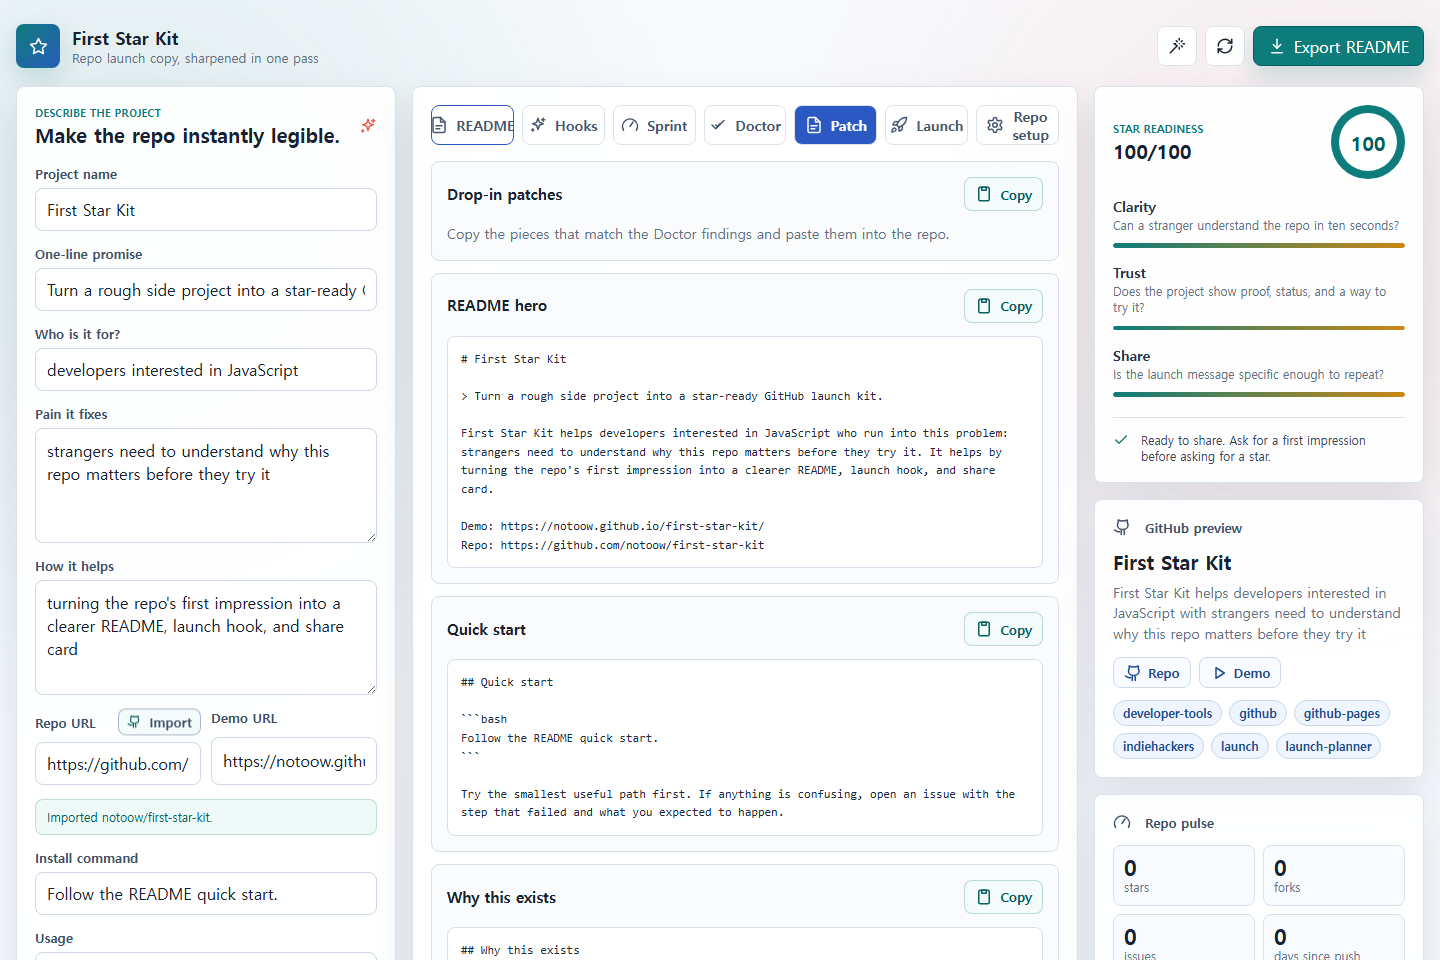
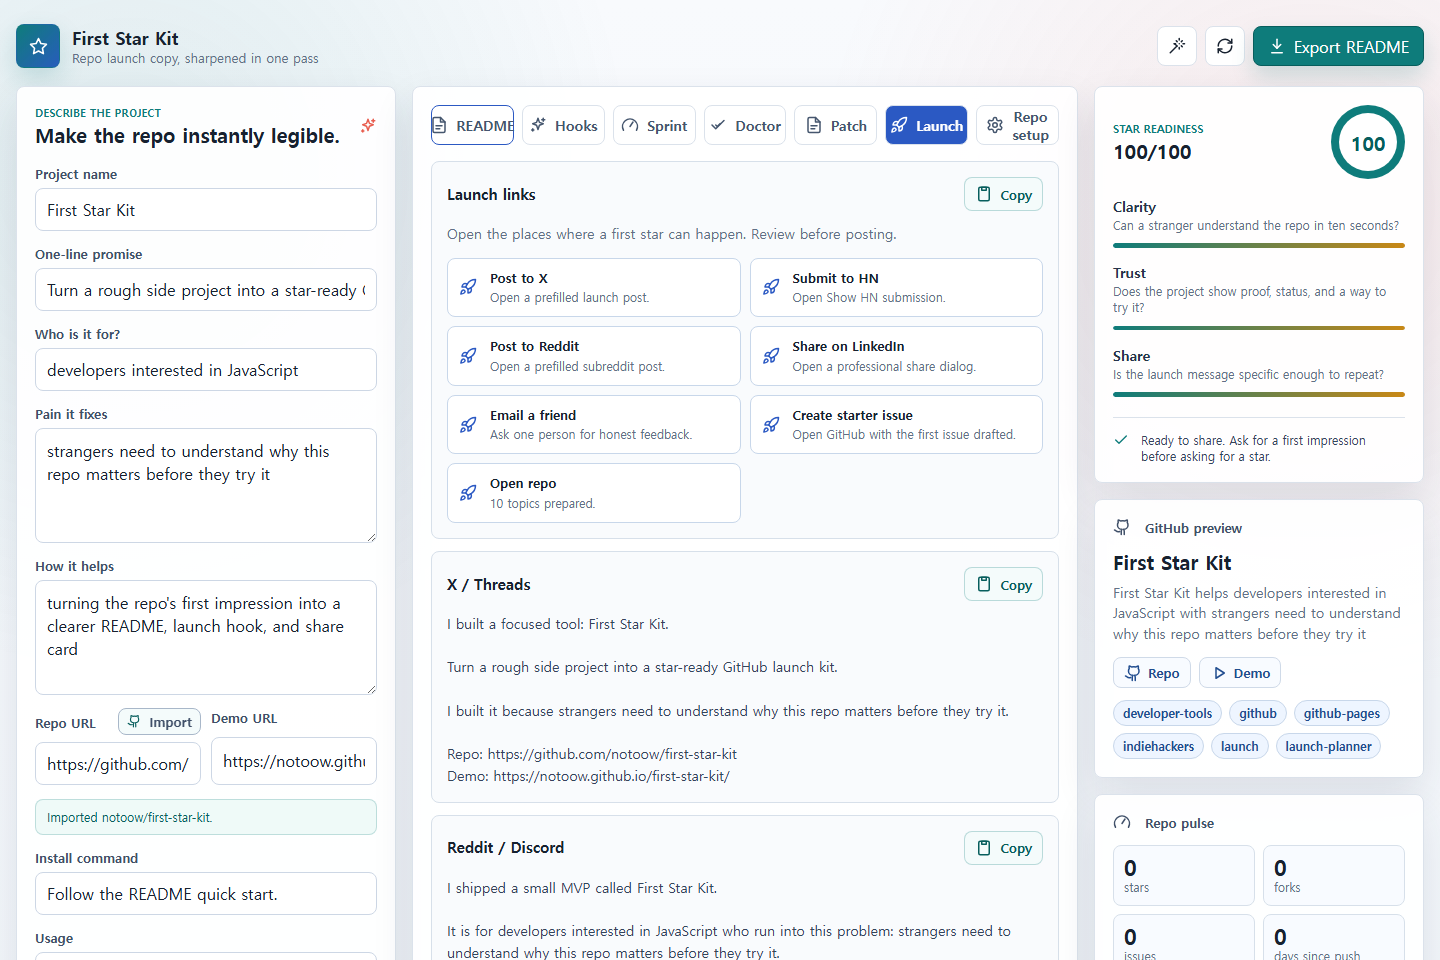
add launch action links

diff --git a/src/app.js b/src/app.js
@@ -263,6 +263,80 @@ function buildLaunchPosts(data) {
   ];
 }
 
+function primaryShareUrl(data) {
+  if (hasUrl(data.demoUrl)) return data.demoUrl.trim();
+  if (hasUrl(data.repoUrl)) return data.repoUrl.trim();
+  return "https://notoow.github.io/first-star-kit/";
+}
+
+function buildStarterIssue(data) {
+  const name = data.projectName.trim() || "Project Name";
+  return {
+    title: `Improve the first-run experience for ${name}`,
+    body: `The first-run path should feel obvious to someone landing on the repo for the first time.
+
+Tasks:
+- Confirm the README explains the problem in one screen.
+- Confirm the demo or screenshot is visible before the feature list.
+- Run the quick start and note the first confusing step.
+- Suggest one sentence that would make the value clearer.
+
+Good first issue: yes`,
+  };
+}
+
+function buildLaunchLinks(data, repoKit, posts) {
+  const name = data.projectName.trim() || "my project";
+  const url = primaryShareUrl(data);
+  const repo = parseGitHubRepoUrl(data.repoUrl);
+  const xText = posts[0].text;
+  const hnTitle = `Show HN: ${name} - ${compact(data.tagline || "a small tool for developers", 70)}`;
+  const redditTitle = `${name}: ${compact(data.tagline || "a small tool for developers", 120)}`;
+  const issue = buildStarterIssue(data);
+  const links = [
+    {
+      label: "Post to X",
+      href: `https://twitter.com/intent/tweet?text=${encodeURIComponent(xText)}`,
+      detail: "Open a prefilled launch post.",
+    },
+    {
+      label: "Submit to HN",
+      href: `https://news.ycombinator.com/submitlink?u=${encodeURIComponent(url)}&t=${encodeURIComponent(hnTitle)}`,
+      detail: "Open Show HN submission.",
+    },
+    {
+      label: "Post to Reddit",
+      href: `https://www.reddit.com/submit?url=${encodeURIComponent(url)}&title=${encodeURIComponent(redditTitle)}`,
+      detail: "Open a prefilled subreddit post.",
+    },
+    {
+      label: "Share on LinkedIn",
+      href: `https://www.linkedin.com/sharing/share-offsite/?url=${encodeURIComponent(url)}`,
+      detail: "Open a professional share dialog.",
+    },
+    {
+      label: "Email a friend",
+      href: `mailto:?subject=${encodeURIComponent(`Quick first impression on ${name}?`)}&body=${encodeURIComponent(posts.find((post) => post.title === "Friendly DM").text)}`,
+      detail: "Ask one person for honest feedback.",
+    },
+  ];
+
+  if (repo) {
+    links.push({
+      label: "Create starter issue",
+      href: `https://github.com/${encodeURIComponent(repo.owner)}/${encodeURIComponent(repo.repo)}/issues/new?title=${encodeURIComponent(issue.title)}&body=${encodeURIComponent(issue.body)}&labels=${encodeURIComponent("good first issue")}`,
+      detail: "Open GitHub with the first issue drafted.",
+    });
+    links.push({
+      label: "Open repo",
+      href: `https://github.com/${encodeURIComponent(repo.owner)}/${encodeURIComponent(repo.repo)}`,
+      detail: `${repoKit.topics.length} topics prepared.`,
+    });
+  }
+
+  return links;
+}
+
 function buildHooks(data) {
   const name = data.projectName.trim() || "my side project";
   const audience = data.audience.trim() || "developers";
@@ -449,7 +523,7 @@ function buildPatchSections(data, repoKit, doctor) {
   const demo = data.demoUrl.trim();
   const repo = data.repoUrl.trim();
   const install = data.installCommand.trim() || "Open the project and follow the README.";
-  const issueTitle = `Improve the first-run experience for ${name}`;
+  const issue = buildStarterIssue(data);
   const failedChecks = doctor.checks.filter((check) => !check.ok);
   const topFixes = failedChecks.length
     ? failedChecks.map((check) => `- ${check.label}: ${check.fix}`).join("\n")
@@ -487,18 +561,10 @@ Try the smallest useful path first. If anything is confusing, open an issue with
     },
     {
       title: "Starter issue",
-      text: `Title: ${issueTitle}
+      text: `Title: ${issue.title}
 
 Body:
-The first-run path should feel obvious to someone landing on the repo for the first time.
-
-Tasks:
-- Confirm the README explains the problem in one screen.
-- Confirm the demo or screenshot is visible before the feature list.
-- Run the quick start and note the first confusing step.
-- Suggest one sentence that would make the value clearer.
-
-Good first issue: yes`,
+${issue.body}`,
     },
     {
       title: "Doctor fixes",
@@ -609,11 +675,32 @@ function renderReadme(readme) {
   document.getElementById("readmePreview").textContent = readme;
 }
 
-function renderLaunch(posts) {
+function renderLaunch(posts, launchLinks) {
   const panel = document.querySelector('[data-panel="launch"]');
-  panel.innerHTML = posts
-    .map(
-      (post, index) => `
+  panel.innerHTML = `
+    <article class="copy-block launch-summary">
+      <div class="copy-block-head">
+        <h2>Launch links</h2>
+        ${copyButton("launchLinks")}
+      </div>
+      <p>Open the places where a first star can happen. Review before posting.</p>
+      <div class="launch-link-grid">
+        ${launchLinks
+          .map(
+            (link) => `
+              <a class="launch-link" href="${escapeHtml(link.href)}" target="_blank" rel="noreferrer">
+                ${icon("rocket")}
+                <span>${escapeHtml(link.label)}</span>
+                <small>${escapeHtml(link.detail)}</small>
+              </a>
+            `,
+          )
+          .join("")}
+      </div>
+    </article>
+    ${posts
+      .map(
+        (post, index) => `
         <article class="copy-block">
           <div class="copy-block-head">
             <h2>${escapeHtml(post.title)}</h2>
@@ -622,8 +709,9 @@ function renderLaunch(posts) {
           <p>${escapeHtml(post.text)}</p>
         </article>
       `,
-    )
-    .join("");
+      )
+      .join("")}
+  `;
 }
 
 function renderHooks(hooks) {
@@ -881,13 +969,14 @@ function render() {
   const sprint = buildSprintPlan(state, repoKit, totalScore);
   const doctor = buildDoctor(state, repoKit);
   const patchSections = buildPatchSections(state, repoKit, doctor);
+  const launchLinks = buildLaunchLinks(state, repoKit, posts);
 
   renderReadme(readme);
   renderHooks(hooks);
   renderSprint(sprint);
   renderDoctor(doctor);
   renderPatch(patchSections);
-  renderLaunch(posts);
+  renderLaunch(posts, launchLinks);
   renderRepo(repoKit);
   renderScores(scores, nudges);
   renderPreview(repoKit);
@@ -942,8 +1031,10 @@ function textForCopy(key) {
   const repoKit = buildRepoChecklist(state);
   const doctor = buildDoctor(state, repoKit);
   const patches = buildPatchSections(state, repoKit, doctor);
+  const launchLinks = buildLaunchLinks(state, repoKit, posts);
 
   if (key === "readme") return readme;
+  if (key === "launchLinks") return launchLinks.map((link) => `${link.label}: ${link.href}`).join("\n");
   if (key.startsWith("post:")) return posts[Number(key.split(":")[1])].text;
   if (key.startsWith("hook:")) return hooks[Number(key.split(":")[1])].text;
   if (key.startsWith("patch:")) return patches[Number(key.split(":")[1])].text;

diff --git a/src/styles.css b/src/styles.css
@@ -473,6 +473,51 @@ p {
   word-break: break-word;
 }
 
+.launch-summary p {
+  color: var(--muted);
+}
+
+.launch-link-grid {
+  display: grid;
+  grid-template-columns: repeat(2, minmax(0, 1fr));
+  gap: 9px;
+  margin-top: 13px;
+}
+
+.launch-link {
+  display: grid;
+  grid-template-columns: 22px minmax(0, 1fr);
+  gap: 5px 9px;
+  align-items: center;
+  border: 1px solid #c8d7ea;
+  border-radius: 8px;
+  background: #ffffff;
+  padding: 11px;
+}
+
+.launch-link:hover {
+  border-color: #9bb4d3;
+  background: #f8fbff;
+}
+
+.launch-link .icon {
+  grid-row: span 2;
+  color: var(--blue);
+}
+
+.launch-link span {
+  color: var(--ink);
+  font-size: 13px;
+  font-weight: 850;
+  line-height: 1.2;
+}
+
+.launch-link small {
+  color: var(--muted);
+  font-size: 12px;
+  line-height: 1.25;
+}
+
 .hook-block p {
   font-size: 16px;
   color: #213047;
@@ -1005,6 +1050,10 @@ meter::-webkit-meter-optimum-value {
   }
 
   .sprint-step {
+    grid-template-columns: 1fr;
+  }
+
+  .launch-link-grid {
     grid-template-columns: 1fr;
   }
 

diff --git a/index.html b/index.html
@@ -16,7 +16,7 @@
     <meta property="og:url" content="https://notoow.github.io/first-star-kit/" />
     <meta name="twitter:card" content="summary_large_image" />
     <title>First Star Kit</title>
-    <link rel="stylesheet" href="./src/styles.css?v=20260511f" />
+    <link rel="stylesheet" href="./src/styles.css?v=20260511g" />
   </head>
   <body>
     <svg aria-hidden="true" class="svg-sprite">
@@ -343,6 +343,6 @@
       </section>
     </main>
 
-    <script src="./src/app.js?v=20260511f"></script>
+    <script src="./src/app.js?v=20260511g"></script>
   </body>
 </html>

diff --git a/README.md b/README.md
@@ -19,6 +19,7 @@ Getting a first GitHub star is often less about the code and more about whether 
 - Repo Pulse for stars, forks, issue count, recent activity, README, license, homepage, and topics
 - README Doctor for first-impression gaps and exact fixes
 - Drop-in README patches for hero copy, quick start, why section, starter issue, and feedback ask
+- Launch links for X, Hacker News, Reddit, LinkedIn, email, GitHub starter issue, and repo
 - Copy-ready hooks for posts, DMs, and first-impression asks
 - 30-minute first-star sprint plan
 - GitHub repo name, description, topics, and starter issues
